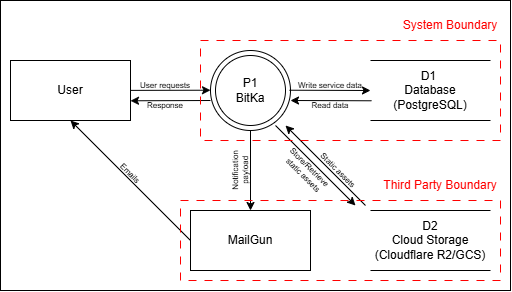
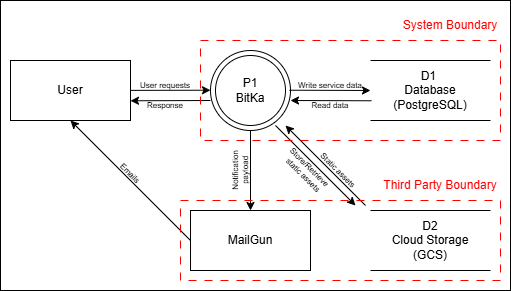
change to description, service name, and cloud platform

diff --git a/portal/docs/audit/threat-model/threat-model.md b/portal/docs/audit/threat-model/threat-model.md
@@ -12,9 +12,10 @@ External dependencies are items outside of the application code.
 
 | ID | Description |
 | :--- | :--- |
-| 1 | Bitka and its database is running on a Linux server running Ubuntu. |
-| 2 | BitKa's cloud storage is on Cloudflare R2 / Google Cloud Storage (GCS). |
-| 3 | MailGun is used to send out notifications to users. |
+| 1 | Bitka and its database on premise instance is running on a Linux server running Ubuntu. |
+| 2 | Bitka and its database on cloud instance is running on a Google Cloud Platform. |
+| 3 | BitKa's cloud storage is on Google Cloud Storage. |
+| 4 | MailGun is used to send out notifications to users. |
 
 ---
 
@@ -51,7 +52,7 @@ Entry points are the interfaces in which the user can feed data into the system.
 | 2.1.3 | POST `https://api.bitka.polishstack.com/v1/auth/refresh` | Refresh access token  | (3) Authorize user  |
 | 2.1.4 | POST `https://api.bitka.polishstack.com/v1/auth/logout` | Logout  | (3) Authorize user  |
 | 2.1.5 | GET `https://api.bitka.polishstack.com/v1/.well-known/jwks.json` | JWKS (JSON Web Key Set)  | (2) Anonymous user  |
-| 2.2 | Account service | Provides access to user data, profile management, and security management. | (4) Application layer services  |
+| 2.2 | User service | Provides access to user data, profile management, and security management. | (4) Application layer services  |
 | 2.2.1 | GET `https://api.bitka.polishstack.com/v1/users/me` | Get current user profile. | (3) Authorize user  |
 | 2.2.2 | PATCH `https://api.bitka.polishstack.com/v1/users/me` | Update current user profile. | (3) Authorize user  |
 | 2.2.3 | GET `https://api.bitka.polishstack.com/v1/users/:id` | Get user profile by ID. | (3) Authorize user  |
